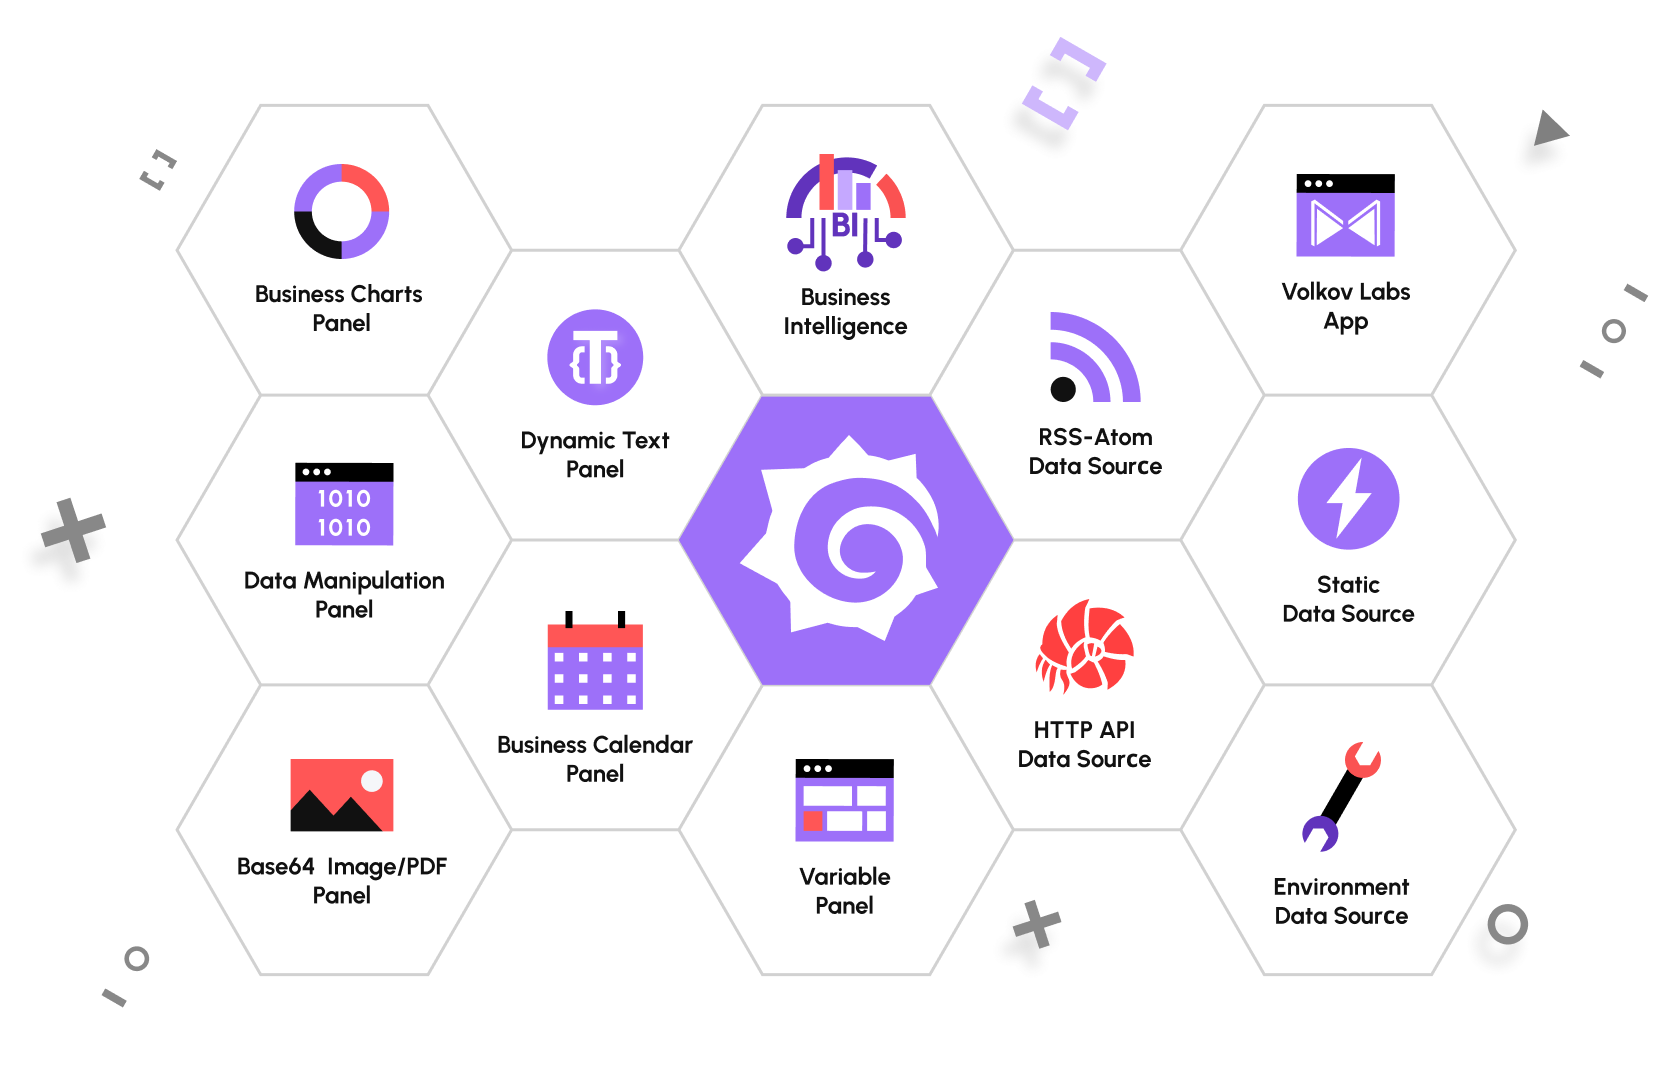
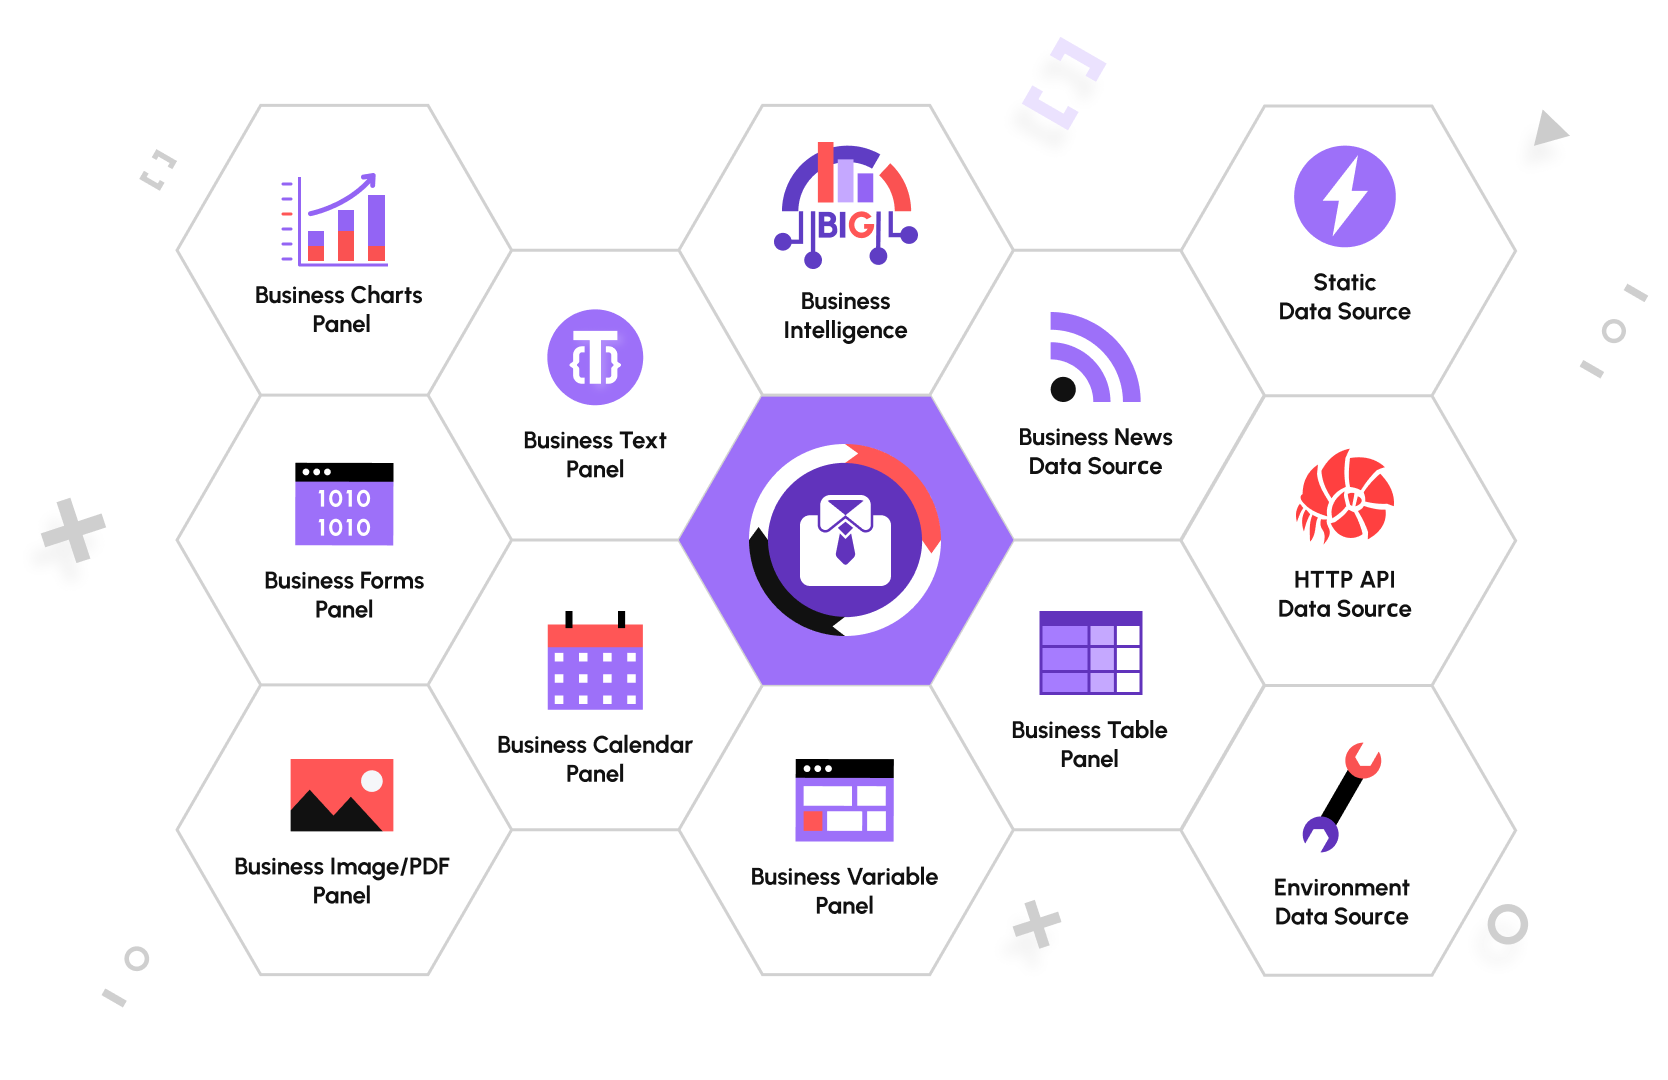
Update Business News Data Source (#657)
* Update Business News Data Source

* Update HTML code

* Update suite.dark.svg

diff --git a/config/navbar.ts b/config/navbar.ts
@@ -5,8 +5,8 @@ export const NAVBAR = {
   hideOnScroll: true,
   logo: {
     alt: "Volkov Labs",
-    src: "img/logo.svg",
-    srcDark: "img/logo.dark.svg",
+    src: "img/suite.svg",
+    srcDark: "img/suite.dark.svg",
   },
   items: [
     {
@@ -48,6 +48,64 @@ export const NAVBAR = {
       ],
     },
     {
+      to: "/plugins/",
+      position: "left",
+      label: "Business Suite for Grafana",
+      "aria-label": "Plugins",
+      items: [
+        {
+          label: "Base64 Panel",
+          to: "/plugins/volkovlabs-image-panel/",
+          className: "volkovlabs-link icon-plugins-base64-link",
+        },
+        {
+          label: "Business Charts Panel",
+          to: "/plugins/volkovlabs-echarts-panel/",
+          className: "volkovlabs-link icon-plugins-echarts-link",
+        },
+        {
+          label: "Business Calendar Panel",
+          to: "/plugins/volkovlabs-calendar-panel/",
+          className: "volkovlabs-link icon-plugins-calendar-link",
+        },
+        {
+          label: "Business News Data Source",
+          to: "/plugins/volkovlabs-rss-datasource/",
+          className: "volkovlabs-link icon-plugins-rss-link",
+        },
+        {
+          label: "Dynamic Text Panel",
+          to: "/plugins/volkovlabs-dynamictext-panel/",
+          className: "volkovlabs-link icon-plugins-dt-link",
+        },
+        {
+          label: "Data Manipulation Panel",
+          to: "/plugins/volkovlabs-form-panel/",
+          className: "volkovlabs-link icon-plugins-form-link",
+        },
+        {
+          label: "Environment Data Source",
+          to: "/plugins/volkovlabs-env-datasource/",
+          className: "volkovlabs-link icon-plugins-env-link",
+        },
+        {
+          label: "Grafana API Data Source",
+          to: "/plugins/volkovlabs-grapi-datasource/",
+          className: "volkovlabs-link icon-plugins-grapi-link",
+        },
+        {
+          label: "Static Data Source",
+          to: "/plugins/volkovlabs-static-datasource/",
+          className: "volkovlabs-link icon-plugins-static-link",
+        },
+        {
+          label: "Variable Panel",
+          to: "/plugins/volkovlabs-variable-panel/",
+          className: "volkovlabs-link icon-plugins-variable-link",
+        },
+      ],
+    },
+    {
       to: "/grafana/",
       position: "left",
       label: "Grafana Crash Course",
@@ -72,64 +130,6 @@ export const NAVBAR = {
         {
           label: "Related Blog posts",
           to: "/blog/tags/grafana-crash-course",
-        },
-      ],
-    },
-    {
-      to: "/plugins/",
-      position: "left",
-      label: "Open-Source Plugins",
-      "aria-label": "Plugins",
-      items: [
-        {
-          label: "Base64 Panel",
-          to: "/plugins/volkovlabs-image-panel/",
-          className: "volkovlabs-link icon-plugins-base64-link",
-        },
-        {
-          label: "Business Charts Panel",
-          to: "/plugins/volkovlabs-echarts-panel/",
-          className: "volkovlabs-link icon-plugins-echarts-link",
-        },
-        {
-          label: "Business Calendar Panel",
-          to: "/plugins/volkovlabs-calendar-panel/",
-          className: "volkovlabs-link icon-plugins-calendar-link",
-        },
-        {
-          label: "Dynamic Text Panel",
-          to: "/plugins/volkovlabs-dynamictext-panel/",
-          className: "volkovlabs-link icon-plugins-dt-link",
-        },
-        {
-          label: "Data Manipulation Panel",
-          to: "/plugins/volkovlabs-form-panel/",
-          className: "volkovlabs-link icon-plugins-form-link",
-        },
-        {
-          label: "Environment Data Source",
-          to: "/plugins/volkovlabs-env-datasource/",
-          className: "volkovlabs-link icon-plugins-env-link",
-        },
-        {
-          label: "Grafana API Data Source",
-          to: "/plugins/volkovlabs-grapi-datasource/",
-          className: "volkovlabs-link icon-plugins-grapi-link",
-        },
-        {
-          label: "RSS/Atom Data Source",
-          to: "/plugins/volkovlabs-rss-datasource/",
-          className: "volkovlabs-link icon-plugins-rss-link",
-        },
-        {
-          label: "Static Data Source",
-          to: "/plugins/volkovlabs-static-datasource/",
-          className: "volkovlabs-link icon-plugins-static-link",
-        },
-        {
-          label: "Variable Panel",
-          to: "/plugins/volkovlabs-variable-panel/",
-          className: "volkovlabs-link icon-plugins-variable-link",
         },
       ],
     },

diff --git a/config/plugins_sidebar.ts b/config/plugins_sidebar.ts
@@ -7,7 +7,7 @@ const sidebars: SidebarsConfig = {
   plugins: [
     {
       items: ["security/index"],
-      label: "Plugins",
+      label: "Business Suite",
       type: "category",
       collapsible: false,
       link: {
@@ -159,6 +159,30 @@ const sidebars: SidebarsConfig = {
       link: {
         type: "doc",
         id: "volkovlabs-calendar-panel/index",
+      },
+    },
+    {
+      items: [
+        {
+          type: "doc",
+          id: "volkovlabs-rss-datasource/index",
+          label: "Introduction",
+        },
+        "volkovlabs-rss-datasource/text",
+        "volkovlabs-rss-datasource/provisioning",
+        {
+          type: "link",
+          href: "/blog/tags/business-news-data-source",
+          label: "Related Blog posts",
+        },
+        "volkovlabs-rss-datasource/release",
+      ],
+      label: "Business News Data Source",
+      type: "category",
+      description: "Visualize RSS/Atom feeds using Dynamic Text.",
+      link: {
+        type: "doc",
+        id: "volkovlabs-rss-datasource/index",
       },
     },
     {
@@ -328,25 +352,6 @@ const sidebars: SidebarsConfig = {
       link: {
         type: "doc",
         id: "volkovlabs-grapi-datasource/index",
-      },
-    },
-    {
-      items: [
-        {
-          type: "doc",
-          id: "volkovlabs-rss-datasource/index",
-          label: "Introduction",
-        },
-        "volkovlabs-rss-datasource/text",
-        "volkovlabs-rss-datasource/provisioning",
-        "volkovlabs-rss-datasource/release",
-      ],
-      label: "RSS/Atom Data Source",
-      type: "category",
-      description: "Visualize RSS/Atom feeds using Dynamic Text.",
-      link: {
-        type: "doc",
-        id: "volkovlabs-rss-datasource/index",
       },
     },
     {

diff --git a/config/footer.ts b/config/footer.ts
@@ -10,7 +10,7 @@ export const FOOTER = {
   style: "light",
   links: [
     {
-      title: "Open-Source Plugins",
+      title: "Business Suite for Grafana",
       items: [
         {
           label: "Base64 Image/PDF Panel",
@@ -26,6 +26,11 @@ export const FOOTER = {
           label: "Business Calendar Panel",
           to: "/plugins/volkovlabs-calendar-panel/",
           className: "volkovlabs-footer-link icon-plugins-calendar-link",
+        },
+        {
+          label: "Business News Data Source",
+          to: "/plugins/volkovlabs-rss-datasource/",
+          className: "volkovlabs-footer-link icon-plugins-rss-link",
         },
         {
           label: "Dynamic Text Panel",
@@ -46,11 +51,6 @@ export const FOOTER = {
           label: "Grafana API Data Source",
           to: "/plugins/volkovlabs-grapi-datasource/",
           className: "volkovlabs-footer-link icon-plugins-grapi-link",
-        },
-        {
-          label: "RSS/Atom Data Source",
-          to: "/plugins/volkovlabs-rss-datasource/",
-          className: "volkovlabs-footer-link icon-plugins-rss-link",
         },
         {
           label: "Static Data Source",

diff --git a/src/constants/plugin.tsx b/src/constants/plugin.tsx
@@ -31,6 +31,12 @@ export const PluginList: PluginItem[] = [
     href: "/plugins/volkovlabs-echarts-panel/",
   },
   {
+    title: "Business News Data Source",
+    name: "volkovlabs-rss-datasource",
+    description: <>Visualize RSS/Atom feeds using Dynamic Text.</>,
+    href: "/plugins/volkovlabs-rss-datasource/",
+  },
+  {
     title: "Dynamic Text Panel",
     name: "volkovlabs-dynamictext-panel",
     description: <>Dynamic, data-driven text.</>,
@@ -49,12 +55,6 @@ export const PluginList: PluginItem[] = [
     name: "volkovlabs-grapi-datasource",
     description: <>Connect to Local and Remote Grafana instances.</>,
     href: "/plugins/volkovlabs-grapi-datasource/",
-  },
-  {
-    title: "RSS/Atom Data Source",
-    name: "volkovlabs-rss-datasource",
-    description: <>Visualize RSS/Atom feeds using Dynamic Text.</>,
-    href: "/plugins/volkovlabs-rss-datasource/",
   },
   {
     title: "Static Data Source",

diff --git a/src/pages/index.tsx b/src/pages/index.tsx
@@ -40,7 +40,7 @@ const Header = (siteConfig) => {
                 )}
                 href="/plugins/"
               >
-                Open-Source Plugins&nbsp;&nbsp;→
+                Business Suite for Grafana&nbsp;&nbsp;→
               </a>
             </div>
           </div>

diff --git a/docusaurus.config.ts b/docusaurus.config.ts
@@ -16,7 +16,7 @@ const config: Config = {
   plugins: PLUGINS,
   presets: PRESETS,
   projectName: "volkovlabs.io",
-  tagline: "Business solutions for Grafana",
+  tagline: "Business Suite for Grafana",
   themeConfig: THEME_CONFIG,
   themes: [],
   title: "Volkov Labs",
